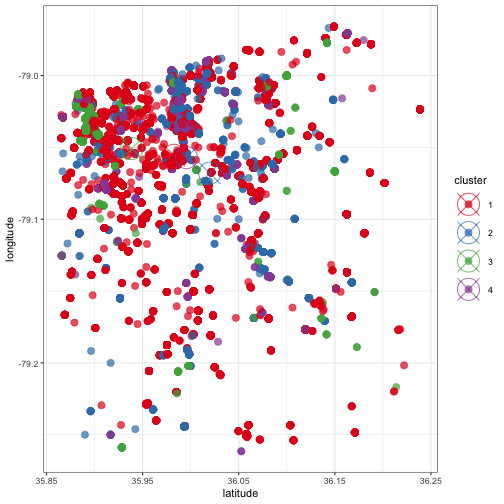
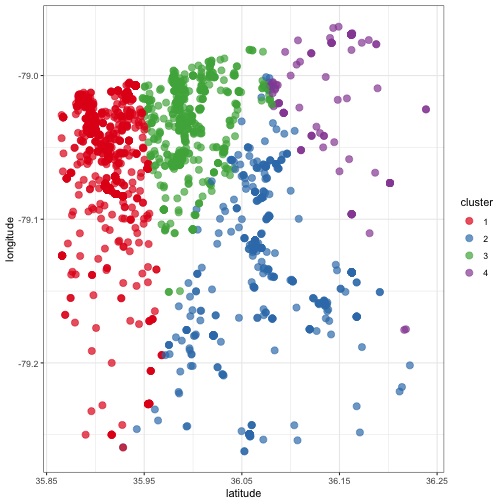
Add files via upload

diff --git a/slides_firstmodels_ptd.html b/slides_firstmodels_ptd.html
@@ -30,6 +30,19 @@ class: center, middle, inverse, title-slide
 **Main reference:** ISLR ch 10, *[Elements of Statistical Learning](https://web.stanford.edu/~hastie/ElemStatLearn/)* ch 14.3
 
 ---
+# Comment
+
+### Lecture will have a slightly different structure
+
+### Lots of new material to cover
+
+### I will demo it all at once
+
+### Tutorial is at the end only, and I will leave ample time
+
+### Important to stick with me for this first part
+
+---
 # Review: K-means clustering
 
 We will have a dataset `\(X\)`, **a matrix `\(n\)` rows and `\(p\)` columns.**  Each row will be written `\(X_i\)`. This is the set of `\(p\)` variable values for observation `\(i\)`.
@@ -39,7 +52,7 @@ For now, we **assume the variables are all numeric type.**
 - observations are **similar if they are close**  together in this space
 
 ### Goal
-Are there groups of of observations that are similar to each other, based on the variables we have?
+Are there groups of observations that are similar to each other, based on the variables we have?
 
 ---
 # Review: K-means program
@@ -98,6 +111,7 @@ Again the result is a vector length `\(n\)` with values in `\(\{1 \ldots K \}\)`
 
 ## Common distances for certain types of information
 
+- **Strings:** various [edit distances](https://en.wikipedia.org/wiki/Edit_distance)
 - **Categorical, unordered:** `\(d(X_i, X_j) =\)` the number of elements observations `\(i,j\)` do not have in common
 - **Categorical, ordered:** `\(d\)` is the squared or other quantitative distance after ordering categories from low to high and scaling. If there are `\(T\)` categories then the category in `\(t\)` place, from low to high, is converted to numeric type by `\(\frac{t - 1/2}{T}\)`
 - **Curved spaces:** a 'geodesic' distance representing the shortest path between two points, e.g. on a sphere
@@ -112,6 +126,7 @@ For example, if we have two variables of numeric type, write `\(X_i = (X_{i1}, X
 
 `$$d(X_i, X_j) = |X_{i1} - X_{j1}| + |X_{i2} - X_{j2}|$$`
 
+Another is the **maximum distance**, given by `$$d(X_i, X_j) = \max_k |X_{ik} - X_{jk}|$$`
 ---
 # Implementation: `pam`
 `pam` is a function in the [`cluster` package.](https://cran.r-project.org/web/packages/cluster/cluster.pdf)
@@ -130,50 +145,6 @@ pam(Dmat, K, diss = TRUE)
 ```
 
 ---
-# Programming first look
-We have not yet done the programming section. But we need to learn just one basic thing before we can continue.
-
-## Define your own function in `R`
-
-Some dummy syntax for a function with two arguments, `arg1` and `arg2` and returning a data frame
-
-```
-fun_name &lt;- function(arg1, arg1){
-
-  x &lt;- do_something(arg1)
-  y &lt;- something_else(arg2)
-
-  return(data.frame(x, y))
-}
-```
-
----
-# Example
-
-Let's write a function for the manhattan distance between two vectors `\(x, y\)`. It will take two arguments and return a single number.
-
-
-```r
-manhattan &lt;- function(x, y){
-  return(sum(abs(x-y)))
-}
-```
-
-For example
-
-
-```r
-x &lt;- c(1, 0, 2)
-y &lt;- c(0, 1, 0)
-manhattan(x, y)
-```
-
-```
-## [1] 4
-```
-
-
----
 # Last time: A smaller BISON
 
 
@@ -190,47 +161,30 @@ This dataset is on [GitHub](https://raw.githubusercontent.com/brendanrbrown/bren
 
 ---
 # End result
-![](slides_firstmodels_ptd_files/figure-html/unnamed-chunk-4-1.png)&lt;!-- --&gt;
+![](slides_firstmodels_ptd_files/figure-html/unnamed-chunk-2-1.png)&lt;!-- --&gt;
 
 ---
 # Code used
 
 ```r
 library(tidyverse)
-bison &lt;- read_csv('https://raw.githubusercontent.com/brendanrbrown/brendanrbrown.github.io/master/smallbison.csv')
-
-bison2 &lt;- mutate(bison, longitude = scale(longitude)[,1], 
-                 latitude = scale(latitude)[,1], dtime = scale(dtime)[,1])
+bison &lt;- read_csv('https://raw.githubusercontent.com/brendanrbrown/brendanrbrown.github.io/master/smallbison.csv') %&gt;% 
+  scale
 
 K &lt;- 4
 
 set.seed(1305)
-m &lt;- kmeans(data.matrix(bison2), centers = K)
+m &lt;- kmeans(bison, centers = K)
 
 cent &lt;- as_tibble(m$centers) %&gt;% mutate(cluster = factor(1:K))
 
-bison2 &lt;- mutate(bison2, cluster = factor(m$cluster))
+# ggplot works with data frames
+bison &lt;- as_tibble(bison) %&gt;% mutate(cluster = factor(m$cluster))
 
-ggplot(bison2, aes(x = latitude, y = longitude, color = cluster)) + geom_point(size = 3, alpha = .7) +
+ggplot(bison, aes(x = latitude, y = longitude, color = cluster)) + geom_point(size = 3, alpha = .7) +
   theme_bw() + scale_color_brewer(type = "qual", palette = "Set1") +
   geom_point(data = cent, size = 6, shape = 13)
 ```
-
----
-# Now you try!
-.center[![](https://ichef.bbci.co.uk/wwfeatures/live/624_351/images/live/p0/26/0z/p0260z5q.jpg)]
-
-
----
-# Tutorial
-Create an html file that does the following
-
-1. **Load** the `bison` dataset from [github](https://raw.githubusercontent.com/brendanrbrown/brendanrbrown.github.io/master/smallbison.csv)
-2. **Scale** each variable as in the code from last class, above.
-
-If you are following along: Note that in my work below, I do not scale the `latitude` and `longitude` variables like this.
-
-This tutorial section is in preparation for what you will do later.
 
 ---
 # The world is not flat
@@ -266,6 +220,7 @@ sqrt(sum((hillsborough-hanes)^2))
 ### Distance on the surface of a sphere
 The [haversine formula](https://en.wikipedia.org/wiki/Haversine_formula) is an **old nautical tool** to calculate distances along the surface of a sphere---a good approximation to distances along the surface of the almost-spherical earth.
 
+#### We have not yet seen how to write your own function. Don't worry about it for now.
 
 ```r
 haversine &lt;- function(lat1, lat2, long1, long2){
@@ -317,6 +272,24 @@ haversine(lat1 = hanes[2], lat2 = pi * 64.182179 / 180, long1 = hanes[1], long2 
 **Answer from NASA:** 2274.5 miles.
 
 ---
+# Mapping in `R`
+
+### Packages
+
+- [`sf`](https://cran.r-project.org/web/packages/sf/index.html)
+- [`sp`](https://cran.r-project.org/web/packages/sp/index.html)
+- `ggplot2` part of the `tidyverse` has basic options
+- many more
+
+### `st_distance`
+The `sf` package includes a function for great circle distance, `st_distance`.
+
+Input is an object of special format. Useful if you are already doing mapping tasks.
+
+See this blog post for examples of [calculating spatial distances in R](https://www.r-bloggers.com/three-ways-to-calculate-distances-in-r/)
+
+
+---
 # A new distance for `bison`
 
 We will
@@ -342,7 +315,7 @@ base `R` function `dist` can do this for a number of distance functions `\(d\)`.
 `proxy` package has a version of the `dist` function that allows you use your **own distance function.**
 
 ### Syntax for BOTH base `R` and `proxy` dist functions
-Here `data` can be a matrix or data frame. If using your own `distance_function`, do this
+Here `data` can be a matrix or data frame. If using your own distance function, called `distance_function` in the placeholder below, do this
 ```
 dist(data, method = distance_function)
 ```
@@ -374,7 +347,8 @@ Removing 'duplicate' rows in `bison` to avoid computational issues. You can do t
 Converting coordinates to radians for `haversine`, and scaling `dtime`.
 
 ```r
-bison &lt;- distinct(bison) %&gt;% 
+bison &lt;- read_csv('https://raw.githubusercontent.com/brendanrbrown/brendanrbrown.github.io/master/smallbison.csv') %&gt;%
+  distinct %&gt;% 
   mutate(latitude = pi*latitude/180, longitude = pi*longitude/180,
                 dtime = scale(dtime)[,1])
 
@@ -430,7 +404,7 @@ group_by(bison, cluster) %&gt;%
 
 ---
 # 2d visuals
-![](slides_firstmodels_ptd_files/figure-html/unnamed-chunk-15-1.png)&lt;!-- --&gt;
+![](slides_firstmodels_ptd_files/figure-html/unnamed-chunk-13-1.png)&lt;!-- --&gt;
 
 ---
 # Code for 2d visuals
@@ -445,7 +419,7 @@ ggplot(bison, aes(x = latitude, y = longitude, color = cluster)) + geom_point(si
 
 ---
 # Clusters with haversine dist
-![](slides_firstmodels_ptd_files/figure-html/unnamed-chunk-17-1.png)&lt;!-- --&gt;
+![](slides_firstmodels_ptd_files/figure-html/unnamed-chunk-15-1.png)&lt;!-- --&gt;
 
 ---
 # Clusters with squared dist (last time)
@@ -471,14 +445,16 @@ ggplot(nc, aes(longitude, latitude)) + geom_polygon(fill = "white", color = "thi
 
 ---
 # Tutorial
-Add the following to your html file
+Create an html file that does the following:
 
 In this tutorial section, you will run the `\(K\)` mediods algorithm using the **Manhattan distance** for all variables.
 
-1. **Remove** non-distinct rows from `bison` using the `distinct` function as above.
-2. Using the `stats::dist` function, **compute** the distance matrix for `bison` using the **Manhattan distance**. See the `dist` syntax slide above.
-3. **Run** the `\(K\)`-mediods algorithm with `\(K=4\)` using the `pam` function and your distance matrix from question 2.
-4. Create a **summary or plot** (your choice) of your results similar to the ones produced above.
+1. **Load** the `bison` dataset from [github](https://raw.githubusercontent.com/brendanrbrown/brendanrbrown.github.io/master/smallbison.csv)
+2. **Remove** non-distinct rows from `bison` using the `distinct` function as above.
+3. **Scale** each variable as in the code from last class. See the tutorial answers from last time for help.
+4. Using the `stats::dist` function, **compute** the distance matrix for `bison` using the **Manhattan distance** for all variables. See the `dist` syntax slide above.
+5. **Run** the `\(K\)`-mediods algorithm with `\(K=4\)` using the `pam` function and your distance matrix from question 2. You will need to run `library(cluster)` first.
+6. Create a **summary or scatterplot** (your choice) of your results similar to the ones produced above.
     </textarea>
 <style data-target="print-only">@media screen {.remark-slide-container{display:block;}.remark-slide-scaler{box-shadow:none;}}</style>
 <script src="https://remarkjs.com/downloads/remark-latest.min.js"></script>
